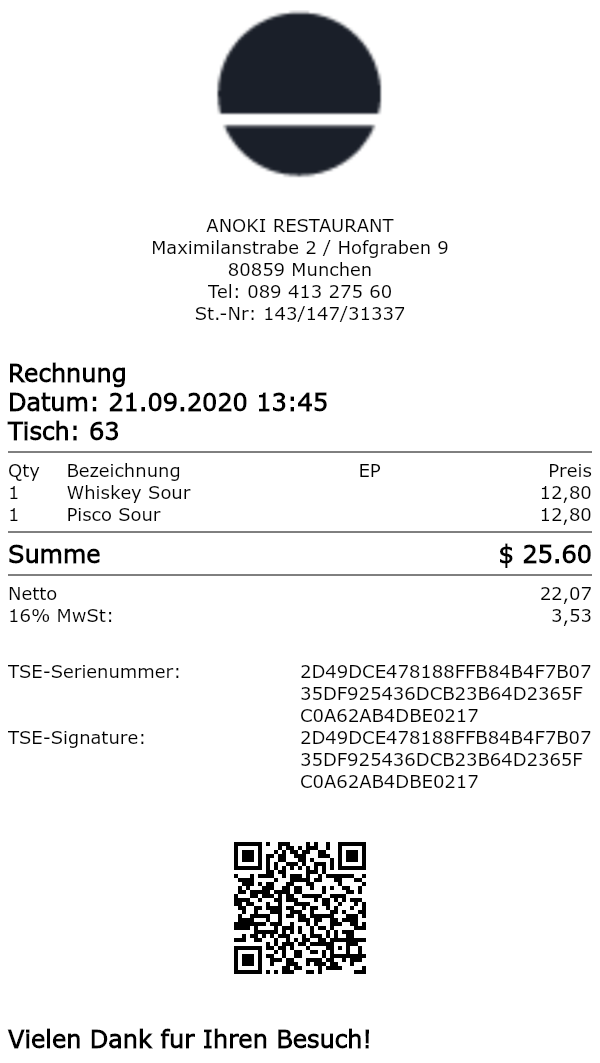
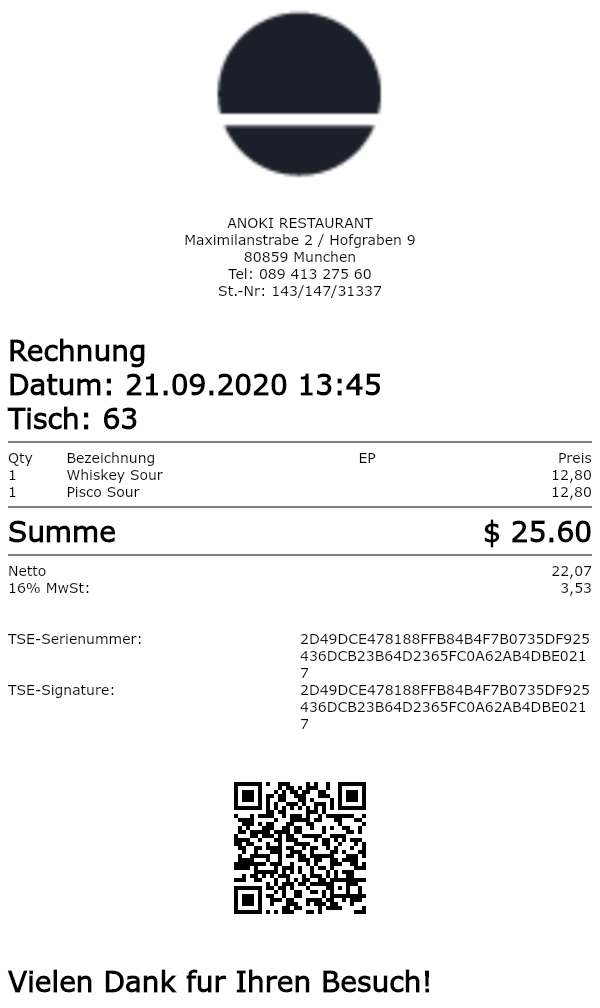
Use stream for printing QRCode & update example

diff --git a/src/canvaskit-api.js b/src/canvaskit-api.js
@@ -5,6 +5,8 @@ const fs = require('fs');
 const sharp = require('sharp');
 const QRCode = require('qrcode');
 const imageSizeOf = require('image-size');
+const {Writable} = require('stream');
+// const generateBarcode = require('barcode');
 
 const DEFAULT_FONT_SIZE = 14;
 const DEFAULT_FONT = 'Verdana';
@@ -21,7 +23,7 @@ async function initCanvaskit() {
 }
 
 class CanvaskitApi {
-  constructor(width = 600, height = 1500) {
+  constructor(width = 600, height = 15000) {
     this.textAlign = Canvaskit.TextAlign.Left;
     this.fontWeight = Canvaskit.FontWeight.Normal;
     this.fontSize = DEFAULT_FONT_SIZE;
@@ -56,6 +58,14 @@ class CanvaskitApi {
   }
 
   setTextDoubleHeight() {
+    this.fontSize = DEFAULT_FONT_SIZE * 2;
+  }
+
+  setTextDoubleWidth() {
+    this.fontSize = DEFAULT_FONT_SIZE * 2;
+  }
+
+  setTextQuadArea() {
     this.fontSize = DEFAULT_FONT_SIZE * 2;
   }
 
@@ -145,16 +155,50 @@ class CanvaskitApi {
     fs.writeFileSync(path.resolve(outputFilePath), pngBytes);
   }
 
-  async printQrCode(text) {
-    const tempFileName = `temp${Math.random()}.png`;
-    const tempFilePath = path.resolve(`${__dirname}/${tempFileName}`);
+  printQrCode(text) {
+    return new Promise(resolve => {
+      let qrBinData = Buffer.from([]);
 
-    await QRCode.toFile(tempFilePath, text);
-    const qrBinData = fs.readFileSync(tempFilePath);
-    fs.unlinkSync(tempFilePath);
+      const writeStream = new Writable();
+      writeStream._write = function (chunk, encoding, cb) {
+        qrBinData = Buffer.concat([qrBinData, chunk]);
+        cb();
+      }
+      writeStream.on('finish', () => {
+        this.printImage(qrBinData);
+        resolve();
+      });
 
-    this.printImage(qrBinData);
+      QRCode.toFileStream(writeStream, text);
+    })
+    // await QRCode.toFile(tempFilePath, text);
+    // const qrBinData = fs.readFileSync(tempFilePath);
+    // fs.unlinkSync(tempFilePath);
   }
+
+  /*printBarCode(text) {
+    return new Promise(resolve => {
+      const code128Barcode = generateBarcode('code39', {
+        data: text,
+        width: this.printWidth * 0.7,
+        height: 100,
+      });
+
+      let barcodeBinData = Buffer.from([]);
+
+      code128Barcode.getStream(function (err, barcodeReadStream) {
+
+        resolve();
+        /!*barcodeReadStream.on('data', (chunk) => {
+          barcodeBinData = Buffer.concat([barcodeBinData, chunk]);
+        });
+        barcodeReadStream.on('end', () => {
+          this.printImage(barcodeBinData);
+          resolve();
+        });*!/
+      });
+    });
+  }*/
 
   /**
    * @param imageInput can be a String (image file path) or Buffer(image binary data)

diff --git a/example.js b/example.js
@@ -7,7 +7,7 @@ initCanvaskit().then(async (CanvaskitApi) => {
   canvaskitApi.alignCenter();
   canvaskitApi.printImage(path.resolve(`${__dirname}/logo.png`));
   canvaskitApi.newLine();
-  canvaskitApi.setFontSize(18);
+  canvaskitApi.setFontSize(14);
   canvaskitApi.println('ANOKI RESTAURANT');
   canvaskitApi.println('Maximilanstrabe 2 / Hofgraben 9');
   canvaskitApi.println('80859 Munchen');
@@ -16,7 +16,7 @@ initCanvaskit().then(async (CanvaskitApi) => {
   canvaskitApi.newLine();
 
   canvaskitApi.alignLeft();
-  canvaskitApi.setFontSize(24);
+  canvaskitApi.setTextQuadArea();
   canvaskitApi.bold(true);
   canvaskitApi.println('Rechnung');
   canvaskitApi.println('Datum: 21.09.2020 13:45');
@@ -24,7 +24,7 @@ initCanvaskit().then(async (CanvaskitApi) => {
   canvaskitApi.bold(false);
   canvaskitApi.drawLine();
 
-  canvaskitApi.setFontSize(18);
+  canvaskitApi.setFontSize(14);
   canvaskitApi.tableCustom([
     {text: 'Qty', align: 'LEFT', width: 0.1},
     {text: 'Bezeichnung', align: 'LEFT', width: 0.5},
@@ -45,12 +45,12 @@ initCanvaskit().then(async (CanvaskitApi) => {
   ]);
   canvaskitApi.drawLine();
 
-  canvaskitApi.setFontSize(24);
+  canvaskitApi.setTextQuadArea();
   canvaskitApi.bold(true);
   canvaskitApi.leftRight('Summe', '$ 25.60');
   canvaskitApi.drawLine();
 
-  canvaskitApi.setFontSize(18);
+  canvaskitApi.setFontSize(14);
   canvaskitApi.bold(false);
   canvaskitApi.leftRight('Netto', '22,07');
   canvaskitApi.leftRight('16% MwSt:', '3,53');
@@ -70,7 +70,7 @@ initCanvaskit().then(async (CanvaskitApi) => {
[1 lines of base64/hex data omitted]
   canvaskitApi.newLine();
 
-  canvaskitApi.setFontSize(24);
+  canvaskitApi.setTextQuadArea();
   canvaskitApi.alignLeft();
   canvaskitApi.bold(true);
   canvaskitApi.println('Vielen Dank fur Ihren Besuch!');
